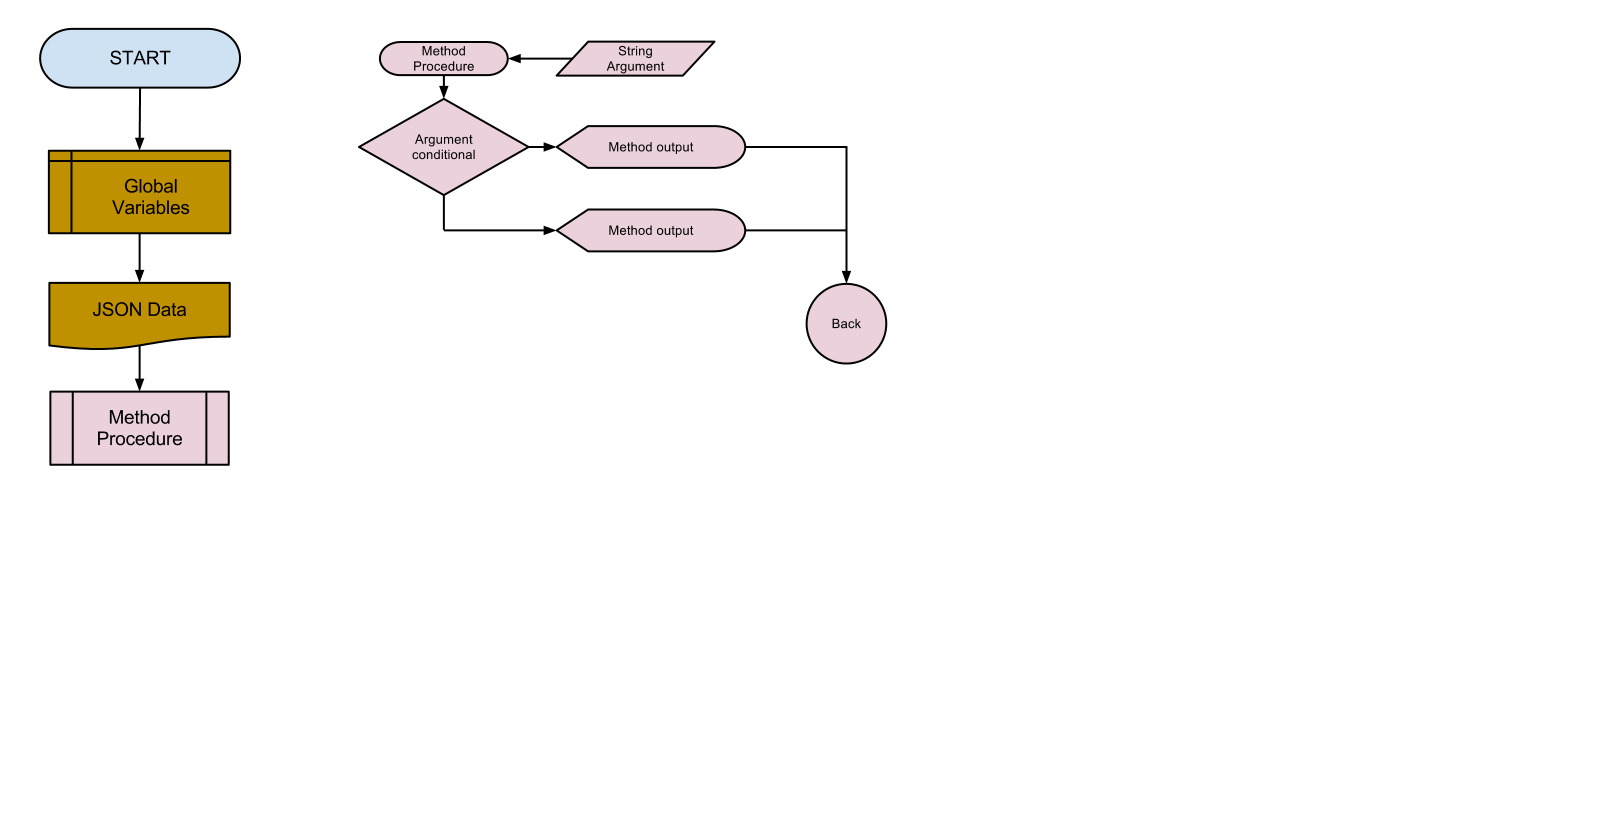
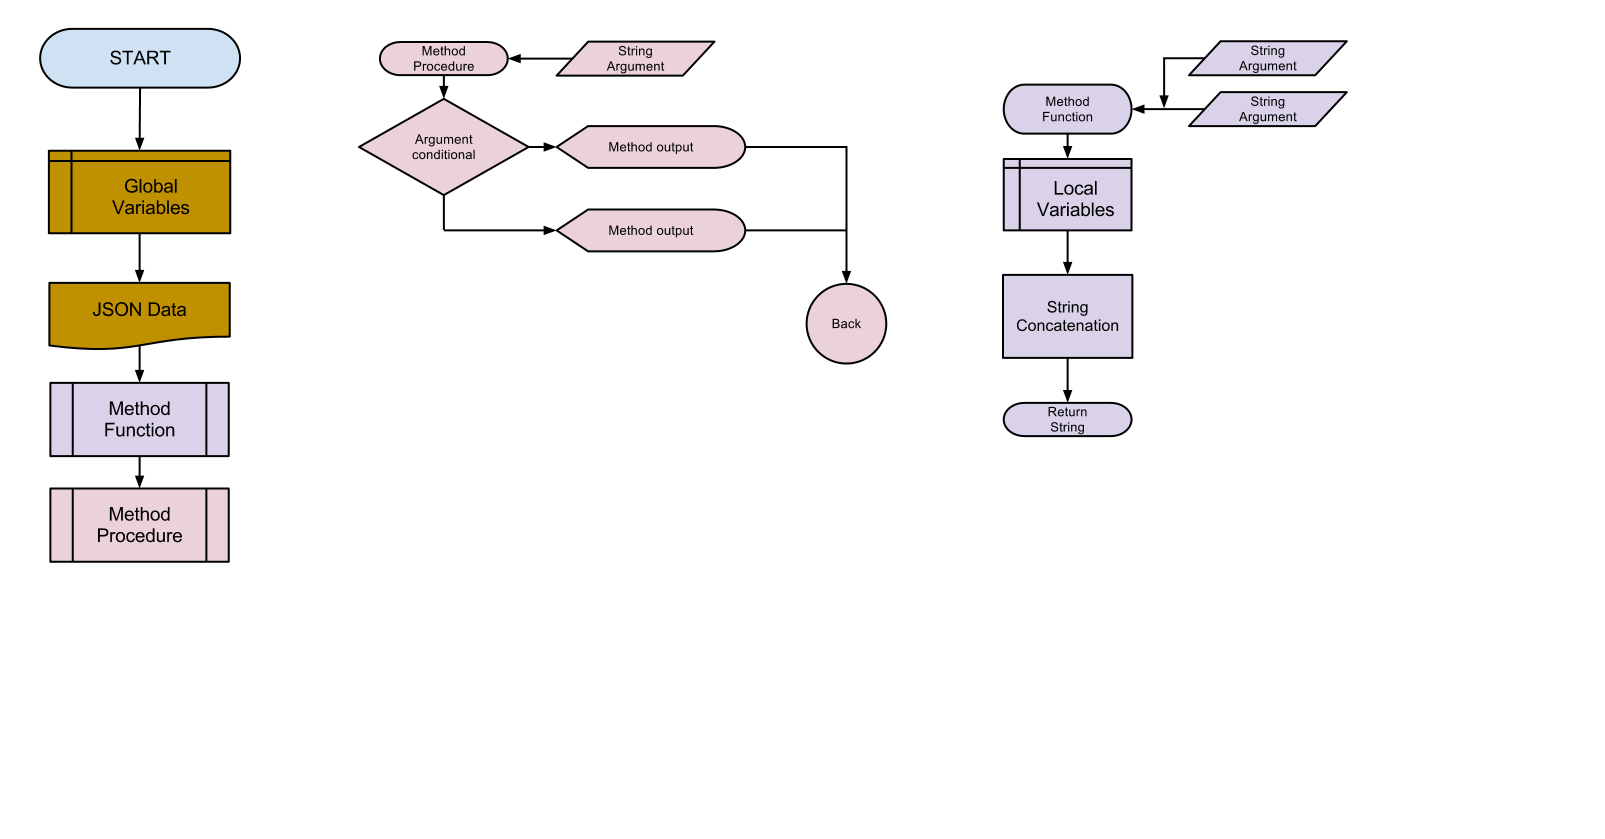
Method Function
Finish with the Method Function and update the Flow Chart drawing

diff --git a/santiago_wiltre_assignment3.js b/santiago_wiltre_assignment3.js
@@ -27,10 +27,18 @@ var data = function(dataInfo){
 		console.log(skier.name + " will use " + skier.equipment + " setup to level " + skier.level); 
 	};
 };
-
+// Method Function 
+var planners = {
+	plannersNames:function (plannerA,plannerB){
+	var plannerA = plannerA.skiers[0].name;
+	var plannerB = plannerB.skiers[1].name;
+	var names = plannerA + " and  " + plannerB +"."+ " Thanks for planning this trip";
+	return names;
+	}
+};
 // Method Procedure
 var TripStatus ={
-	status: function(status){
+	statusInput: function(status){
 	if ((status === "yes" || status === "Yes") && roadConditions === "Good") {
 		console.log (when + kindOFtrip);	
 	} else {
@@ -41,12 +49,11 @@ var TripStatus ={
 };
 
 //Main Code 
+TripStatus.statusInput(status);
 var skiersData= data(skiAndRidersInfo);
-
-console.log(skiAndRidersInfo.skiers.length)
-TripStatus.status(status);
-
-
+var plannersList = planners.plannersNames(skiAndRidersInfo,skiAndRidersInfo);
+console.log (plannersList);
+console.log(skiAndRidersInfo.skiers.length) //display as number 4
 
 
 
@@ -60,7 +67,13 @@ TripStatus.status(status);
 // will not include anything below this line. =
 
 
-
+console.log(" ");
+console.log(" ");
+console.log(" ");
+console.log(" ");
+console.log(" ");
+console.log(" ");
+console.log("******************---------------****************** ");
 // Reference for syntax
 // array syntax || var arr =[];  
 // Function Syntax || var fun = function(){};
